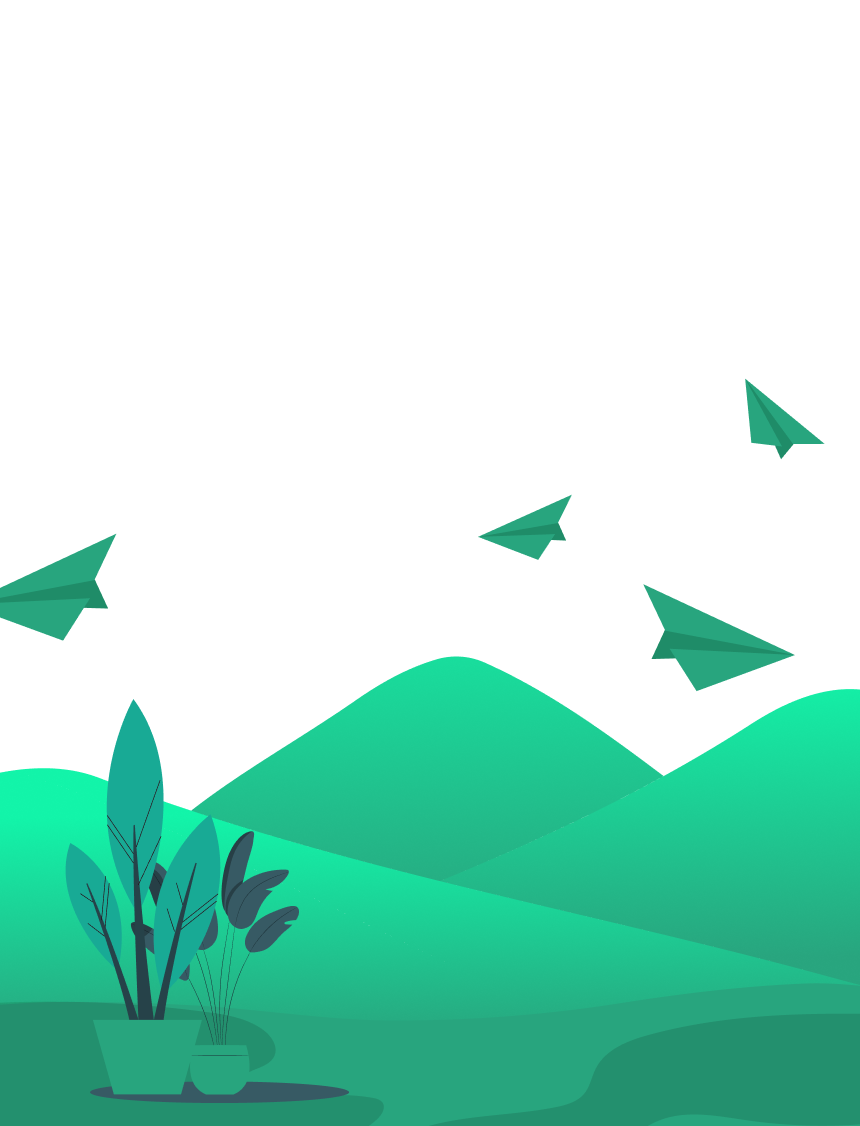
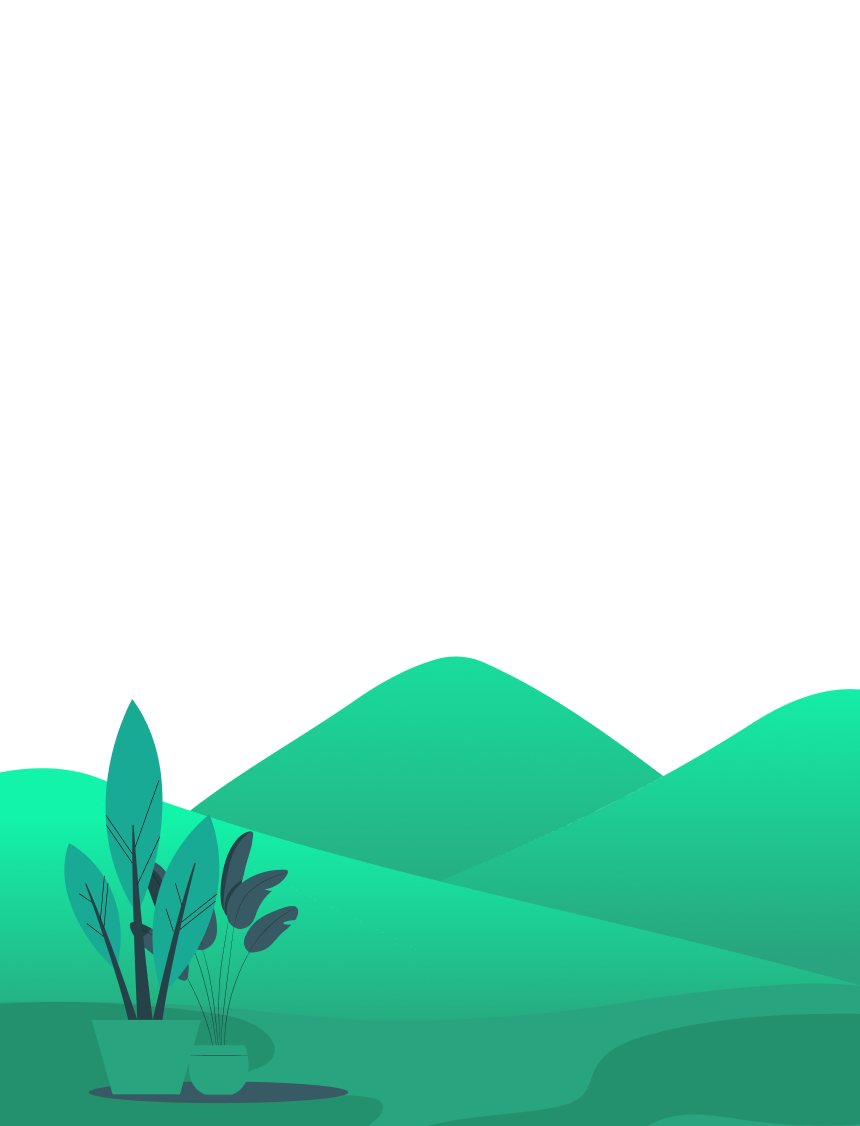
add anim plane for message is empty

diff --git a/lib/features/message/presentation/message_empty.dart b/lib/features/message/presentation/message_empty.dart
@@ -1,10 +1,10 @@
 import 'package:flutter/material.dart';
 import 'package:plant_match_v2/core/i18n/translations.g.dart';
 import 'package:flutter_lucide/flutter_lucide.dart';
-import 'package:plant_match_v2/core/gen/assets.gen.dart';
 import 'package:plant_match_v2/core/theme/app_colors.dart';
 import 'package:plant_match_v2/core/theme/app_typo.dart';
 import 'package:plant_match_v2/core/theme/inter_text_style.dart';
+import 'package:plant_match_v2/features/message/presentation/message_empty_illustration.dart';
 
 class MessageEmpty extends StatelessWidget {
   const MessageEmpty({super.key});
@@ -14,12 +14,9 @@ class MessageEmpty extends StatelessWidget {
     return Stack(
       fit: StackFit.expand,
       children: [
-        Align(
+        const Align(
           alignment: Alignment.bottomCenter,
-          child: Assets.res.images.emptyTchat.image(
-            width: double.infinity,
-            fit: BoxFit.fitWidth,
-          ),
+          child: MessageEmptyIllustration(),
         ),
         Align(
           alignment: const Alignment(0, -0.7),

diff --git a/lib/core/gen/assets.gen.dart b/lib/core/gen/assets.gen.dart
@@ -37,6 +37,10 @@ class $ResGen {
 class $ResAnimationsGen {
   const $ResAnimationsGen();
 
+  /// File path: res/animations/paper_planes.json
+  LottieGenImage get paperPlanes =>
+      const LottieGenImage('res/animations/paper_planes.json');
+
   /// File path: res/animations/plant_match_dots_loader.json
   LottieGenImage get plantMatchDotsLoader =>
       const LottieGenImage('res/animations/plant_match_dots_loader.json');
@@ -46,7 +50,8 @@ class $ResAnimationsGen {
       const LottieGenImage('res/animations/plant_match_loader.json');
 
   /// List of all assets
-  List<LottieGenImage> get values => [plantMatchDotsLoader, plantMatchLoader];
+  List<LottieGenImage> get values =>
+      [paperPlanes, plantMatchDotsLoader, plantMatchLoader];
 }
 
 class $ResFontsGen {

diff --git a/lib/features/message/presentation/message_empty_illustration.dart b/lib/features/message/presentation/message_empty_illustration.dart
@@ -1,0 +1,21 @@
+import 'package:flutter/material.dart';
+import 'package:plant_match_v2/core/gen/assets.gen.dart';
+
+class MessageEmptyIllustration extends StatelessWidget {
+  const MessageEmptyIllustration({super.key});
+
+  @override
+  Widget build(BuildContext context) {
+    return Stack(
+      children: [
+        Assets.res.images.emptyTchat.image(
+          width: double.infinity,
+          fit: BoxFit.fitWidth,
+        ),
+        Positioned.fill(
+          child: Assets.res.animations.paperPlanes.lottie(fit: BoxFit.fill),
+        ),
+      ],
+    );
+  }
+}

diff --git a/tool/generate_paper_planes_lottie.py b/tool/generate_paper_planes_lottie.py
@@ -1,0 +1,143 @@
+import json
+import math
+import re
+import sys
+
+FPS = 60
+DURATION_S = 6
+FRAMES = FPS * DURATION_S
+STEP = 4
+GLIDE = 6.0
+BOB = 4.0
+TILT = 4.0
+PHASES = [0.0, 0.35, 0.6, 0.85]
+
+
+def parse_triangles(svg):
+    paths = re.findall(r'<path d="M([^"]+)Z" fill="(#[0-9A-Fa-f]{6})"', svg)
+    return [
+        ([tuple(map(float, p.split())) for p in d.split("L")], color)
+        for d, color in paths
+    ]
+
+
+def hex_to_rgba(color):
+    return [int(color[i:i + 2], 16) / 255 for i in (1, 3, 5)] + [1]
+
+
+def shape_group(points, color):
+    return {
+        "ty": "gr",
+        "it": [
+            {
+                "ty": "sh",
+                "ks": {
+                    "a": 0,
+                    "k": {
+                        "c": True,
+                        "v": [list(p) for p in points],
+                        "i": [[0, 0]] * len(points),
+                        "o": [[0, 0]] * len(points),
+                    },
+                },
+            },
+            {"ty": "fl", "c": {"a": 0, "k": hex_to_rgba(color)}, "o": {"a": 0, "k": 100}, "r": 1},
+            {
+                "ty": "tr",
+                "p": {"a": 0, "k": [0, 0]},
+                "a": {"a": 0, "k": [0, 0]},
+                "s": {"a": 0, "k": [100, 100]},
+                "r": {"a": 0, "k": 0},
+                "o": {"a": 0, "k": 100},
+            },
+        ],
+    }
+
+
+def keyframes(values):
+    frames = list(range(0, FRAMES + 1, STEP))
+    return {
+        "a": 1,
+        "k": [
+            {
+                "t": t,
+                "s": values(t),
+                "i": {"x": [1], "y": [1]},
+                "o": {"x": [0], "y": [0]},
+            }
+            for t in frames
+        ],
+    }
+
+
+def plane_layer(index, triangles):
+    nose = triangles[0][0][0]
+    points = [p for tri, _ in triangles for p in tri]
+    center = (
+        sum(p[0] for p in points) / len(points),
+        sum(p[1] for p in points) / len(points),
+    )
+    length = math.dist(nose, center)
+    heading = ((nose[0] - center[0]) / length, (nose[1] - center[1]) / length)
+    normal = (-heading[1], heading[0])
+    phase = PHASES[index] * 2 * math.pi
+
+    def angle(t):
+        return 2 * math.pi * t / FRAMES + phase
+
+    def position(t):
+        glide = GLIDE * math.sin(angle(t))
+        bob = BOB * math.sin(2 * angle(t))
+        return [
+            round(center[0] + heading[0] * glide + normal[0] * bob, 2),
+            round(center[1] + heading[1] * glide + normal[1] * bob, 2),
+        ]
+
+    def rotation(t):
+        return [round(TILT * math.cos(2 * angle(t)), 2)]
+
+    return {
+        "ddd": 0,
+        "ind": index + 1,
+        "ty": 4,
+        "nm": f"plane_{index + 1}",
+        "sr": 1,
+        "ks": {
+            "o": {"a": 0, "k": 100},
+            "r": keyframes(rotation),
+            "p": keyframes(position),
+            "a": {"a": 0, "k": [center[0], center[1], 0]},
+            "s": {"a": 0, "k": [100, 100, 100]},
+        },
+        "ao": 0,
+        "shapes": [shape_group(tri, color) for tri, color in reversed(triangles)],
+        "ip": 0,
+        "op": FRAMES,
+        "st": 0,
+        "bm": 0,
+    }
+
+
+def main(svg_path, out_path):
+    svg = open(svg_path).read()
+    width, height = (int(v) for v in re.search(r'viewBox="0 0 (\d+) (\d+)"', svg).groups())
+    triangles = parse_triangles(svg)
+    planes = [triangles[i:i + 3] for i in range(0, len(triangles), 3)]
+    lottie = {
+        "v": "5.7.4",
+        "fr": FPS,
+        "ip": 0,
+        "op": FRAMES,
+        "w": width,
+        "h": height,
+        "nm": "paper_planes",
+        "ddd": 0,
+        "assets": [],
+        "layers": [plane_layer(i, plane) for i, plane in enumerate(planes)],
+    }
+    with open(out_path, "w") as f:
+        json.dump(lottie, f, separators=(",", ":"))
+
+
+if __name__ == "__main__":
+    main(sys.argv[1], sys.argv[2])
